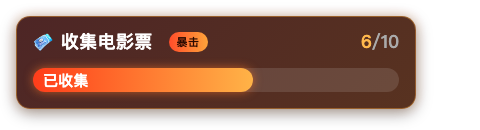
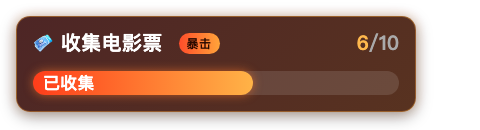
Revert "style: 暴击卡字号缩一档，和心动盲盒观感对齐" + 统一到心动字号
上次缩字号改错了方向 —— 以心动盲盒卡为字号标准，暴击卡对齐到同样
的 20px 标题 / 20px 数字 / 12px chip / 17px「已收集」。图标 20px（上一
版已改）保留。

diff --git a/frontend/src/pages/OverlayWeeklyTasksPage.tsx b/frontend/src/pages/OverlayWeeklyTasksPage.tsx
@@ -290,13 +290,13 @@ function CritTaskCard({
             style={{ width: 20, height: 20, objectFit: 'contain', display: 'block' }}
           />
         ) : null}
-        <span style={{ fontSize: 18, fontWeight: 600, letterSpacing: 0.3 }}>
+        <span style={{ fontSize: 20, fontWeight: 600, letterSpacing: 0.3 }}>
           收集{giftName}
         </span>
         <span
           style={{
             marginLeft: 8,
-            fontSize: 11, fontWeight: 700,
+            fontSize: 12, fontWeight: 700,
             padding: '2px 8px',
             borderRadius: 999,
             background: 'linear-gradient(to right, #ff4d2a, #ffa43a)',
@@ -306,7 +306,7 @@ function CritTaskCard({
         >
           暴击
         </span>
-        <span style={{ marginLeft: 'auto', fontSize: 18, fontWeight: 600 }}>
+        <span style={{ marginLeft: 'auto', fontSize: 20, fontWeight: 600 }}>
           <span style={{ color: '#ffb84d' }}>{count}</span>
           <span style={{ color: '#aaa' }}>/{target}</span>
         </span>
@@ -330,7 +330,7 @@ function CritTaskCard({
             boxShadow: '0 0 10px rgba(255,120,40,0.6)',
             display: 'flex', alignItems: 'center',
             paddingLeft: count > 0 ? 10 : 0,
-            color: '#fff', fontSize: 15, fontWeight: 700,
+            color: '#fff', fontSize: 17, fontWeight: 700,
             letterSpacing: 0.3,
             whiteSpace: 'nowrap',
             boxSizing: 'border-box',
